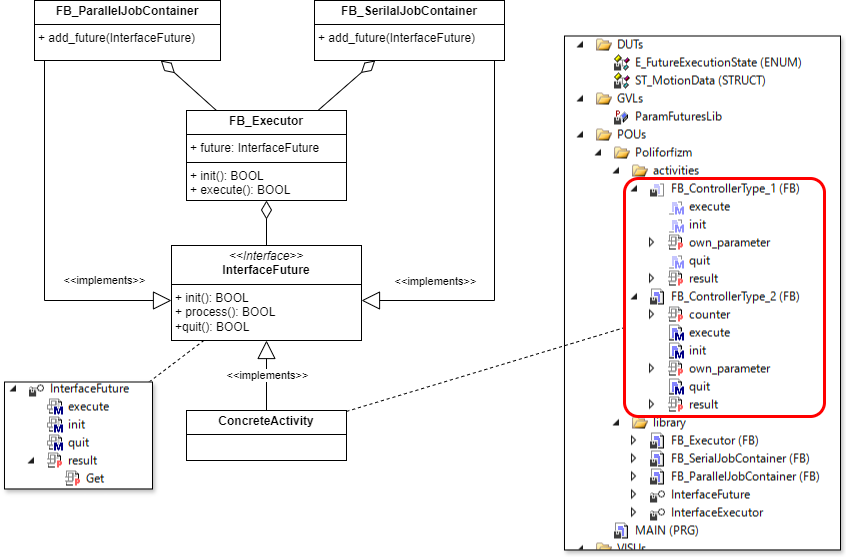
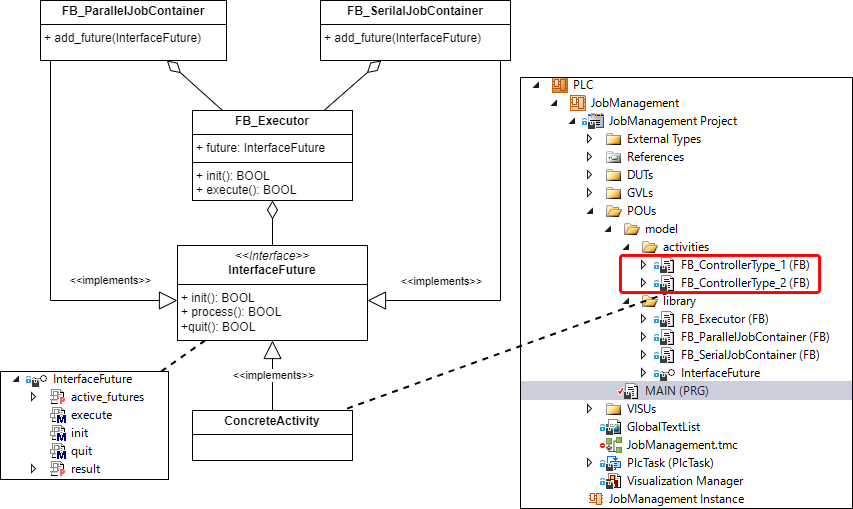
ジョブ管理機構サンプルコード：処理中断に関する仕様説明追加

diff --git a/source/plc_object_oriented_programming/sample_universal_activity.md b/source/plc_object_oriented_programming/sample_universal_activity.md
@@ -110,37 +110,28 @@ END_CASE
 
 この実装例でみられるとおり、本来の目的では、状態1はタイマによる処理、状態2はカウンタによる処理、としたいところですが、タイマの後始末や初期化処理がその前後のステップに食い込むなど、明確にプログラムロジックが分かれていません。
 
-これはメンテナンス性、可読性を落とす原因となっています。これらを処理目的毎に明確に「タスク」に分離し、オブジェクトモデルでジョブを構築できることを目指しましょう。
+PLCは、TcCOMモジュール全体でサイクリックに処理が繰り返されるもので、機能毎に独立して処理される訳ではありません。よって前述のとおり非活性状態のオブジェクトを含む、全体のオブジェクト状態を常に管理し続けなければなりません。これが徹底されていないことにより、不具合やバグが生じる要因となりえます。
 
-## サンプルプログラム解説
+## 並列ジョブ制御フレームワークサンプルコードのご紹介
 
-```{note}
+このサンプルコードでは、タスクの生成から終了に対する統合的な状態管理機能と、その状態に応じたユーザ定義機能を提供します。これにより前節で説明したオブジェクト状態管理に関する問題を解決することができます。
 
-本サンプルプログラムは、以下で公開しています。
+また、さまざまなIOやハードウェアの制御機能を「タスク」として抽象化することができます。これによってソフトウェア機能の部品化を加速し、統一したインターフェースに基づいてトレーサビリティ、イベント管理など付帯機能などとの連携が容易になります。
 
-[https://github.com/Beckhoff-JP/PLC_JobManagementFramework.git](https://github.com/Beckhoff-JP/PLC_JobManagementFramework.git)
+### タスクの構成とオブジェクトモデル
 
+フレームワークでは、{numref}`fig_future_time_chart`に示すタイミングチャートの単位をタスクとして制御できるようにします。タスクの本体は`executing()`で定義しますが、`init()`、`quit()`でその前後処理を定義します。
+
+```{figure} assets/task_time_chart.png
+:align: center
+:name: fig_future_time_chart
+
+タスクの構成と外部とのハンドシェーク
 ```
 
-まず、今回作成するジョブ制御フレームワークのクラス図を{numref}`fig_job_control_class_diagram` に示します。
+クラス図を{numref}`fig_job_control_class_diagram` に示します。タスクの定義は、`InterfaceFuture`のインターフェースを実装することで行います。サンプルコードではPOUsのツリー以下に`model/activities`というサブフォルダを構成し、ここにさまざまな制御パターンを集めて定義しています。これを用いてMAINプログラムでジョブを組み立てます。（{numref}`example_of_main_program_using_job_framework`）
 
-このモデルの中核は、タスクの構成を表すインターフェース`InterfaceFuture`です。非同期並列処理の概念である、[Futureパターン](https://ja.wikipedia.org/wiki/Future_%E3%83%91%E3%82%BF%E3%83%BC%E3%83%B3)からこの名前としました。
-
-このインターフェースでは、次のメソッドを定義します。いずれも引数は無しで、戻り値はBOOL型です。`FB_Executor` オブジェクトによりメソッドが実行され、処理を進行するためには、個々のメソッドの戻り値をTRUEにします。処理結果は別途`HRESULT`型のプロパティ`result`にセットします。
-
-```{csv-table}
-:header: メソッド名, 説明
-
-`init`, 実行前に必要な変数やオブジェクトの初期化を行います。
-`execute`, 独自の処理ロジックを実装します。
-`quit`, 実行後の変数やオブジェクトの後始末を行います。
-```
-
-このインターフェースを実装するプログラムは、すべて特定のフォルダに集めておきます。この例では`activities`フォルダにあります。
-
-ここには、いわば制御デザインパターンを格納する場所です。ハードウェアに合わせたものや、動作パターン毎にファンクションブロックを配置します。
-
-正常系だけではなく、異常終了した後の特別な処理なども定義しておくと良いでしょう。
+このように、制御デザインパターンと、これを組み合わせたジョブを区別して管理することで拡張性に優れた制御プログラムや、制御デザインパターンのライブラリ化が容易になります。
 
 ```{figure} assets/activity_control_class_diag.png
 :align: center
@@ -149,45 +140,10 @@ END_CASE
 JOB制御クラス図
 ```
 
-InterfaceFutureを実装したファンクションブロックインスタンスを`FB_Executor`の`future`プロパティを経てロードし、init()およびexecute()メソッドを実行すると、{numref}`fig_future_time_chart`の基本処理単位のセッションを実施します。先ほど示した状態マシンの例にあるような、制御実行前の準備、そして、制御終了後の処理など個別に定義でき、前処理や処理本体の開始タイミングは外部から与えられるようにします。
-
-```{figure} assets/task_time_chart.png
-:align: center
-:name: fig_future_time_chart
-
-Futureの構成とハンドシェーク
-```
-
-また、単一のタスクだけではなく、複数のタスクをまとめて処理するコンテナオブジェクトを用意しました。`FB_ParallelJobContainer`や`FB_SerialJobContainer`を用いると、{numref}`fig_parallel_job_container`や、{numref}`fig_serial_job_container`のように同時実行、または、逐次実行が可能となります。
-
-
-```{figure} assets/run_future_cue.png
-:align: center
-:name: fig_parallel_job_container
-
-並列処理JOBコンテナ（`FB_ParallelJobContainer`によるJOB配置イメージ）
-```
-
-```{figure} assets/run_future_serial.png
-:align: center
-:name: fig_serial_job_container
-
-直列処理JOBコンテナ（`FB_SerialJobContainer`によるJOB配置イメージ）
-```
-
-また、`FB_ParallelJobContainer`と`FB_SerialJobContainer`もまた`InterfaceFuture`インターフェースを実装していますので、それ自体を`FB_Executor`に処理させることができます。これにより、並列処理と逐次処理を組み合わせた複雑なタスク実行が可能となっています。
-
-```{tip}
-このデータモデルは、コンテナと処理が親子関係を構成し、定義によってさまざまな枝葉モデルが構築可能です。このソフト実装のデザインパターンを、[GoFのCompositeパターン](https://ja.wikipedia.org/wiki/Composite_%E3%83%91%E3%82%BF%E3%83%BC%E3%83%B3)と呼びます。
-```
-
-コンテナも含めたJOBの概念図は次の通りとなります。色付きの線が、個々のタスクに該当します（{numref}`fig_job_control_class_diagram`の`ConcreteActivity`に該当するオブジェクト）。これらはFB_ParallelJobContainerやFB_SerialJobContainerと共に、InterfaceFutureを実装したものです。このインターフェースを使って、FB_Executorが処理を実行します。
-
-![](assets/sample_code_job_structure.png){align=center}
-
-次のMAINプログラムは、この図に従った実際のプログラム例です。
-
 ```{code-block} iecst
+:caption: 並列ジョブ管理フレームワークを用いたMAINプログラム例
+:name: example_of_main_program_using_job_framework
+
 PROGRAM MAIN
 VAR
     _state :UINT;
@@ -195,6 +151,10 @@ VAR
     fbTask2 : FB_ControllerType_1;
     fbTask3 : FB_ControllerType_2;
     fbTask4 : FB_ControllerType_2;
+    fbTask5 : FB_ControllerType_1;
+    fbTask6 : FB_ControllerType_1;
+
+
     component1_in : BOOL;
     component1_out : BOOL;
     component2_in : BOOL;
@@ -208,18 +168,22 @@ VAR
     serial_job3 : FB_SerialJobContainer;
     pararel_job1 : FB_ParallelJobContainer;
     pararel_job2 : FB_ParallelJobContainer;
-    executor : FB_Executor;
+    executor: FB_Executor;
+    execution_step: UINT;
+    resume: BOOL;
+    abort: BOOL;
 END_VAR
 
-
-// FB_Executor.execute()メソッドは常時実行
-executor.execute();
+// HMIボタンによる処理中断
+IF abort THEN
+    executor.abort();
+END_IF
 
 CASE _state OF
     0:
-        // 固有パラメータ設定
-        fbTask1.own_parameter := T#3S;
-        fbTask2.own_parameter := T#10S;
+        // 固有パラメータ設
+        fbTask1.own_parameter := T#13S;
+        fbTask2.own_parameter := T#20S;
         fbTask3.own_parameter := 2;
         fbTask4.own_parameter := 2;
         
@@ -236,22 +200,221 @@ CASE _state OF
         serial_job1.add_future(fbTask2);
         serial_job2.add_future(fbTask3);
         serial_job2.add_future(fbTask4);
-        pararel_job2.add_future(fbTask1);
-        pararel_job2.add_future(fbTask2);
+        pararel_job2.add_future(fbTask3); // 同時実行でなければ同じFutureオブジェクトを使いまわせる
+        pararel_job2.add_future(fbTask4);
         serial_job3.add_future(pararel_job1);
         serial_job3.add_future(pararel_job2);
         executor.future := serial_job3;
         _state := 1;
     1:
-        // シーケンス開始
-        IF executor.ready THEN
+        // タスクスタート（wait_for_process か 処理中断再開でスタート）
+        IF (executor.current_state = E_FutureExecutionState.wait_for_process AND executor.ready) OR 
+            (executor.current_state = E_FutureExecutionState.abort AND resume) THEN
             executor.start();
         END_IF
-        IF executor.done THEN
+        // ジョブ実行中execute()の常時実行
+        IF executor.execute() AND SUCCEEDED(executor.result) THEN
             _state := 2;
         END_IF
     2:
+        // シーケンス初期化を行い、再度ジョブ実行（繰り返し処理）
         executor.init();
         _state := 1;
 END_CASE
+
+execution_step := executor.active_task_id;
+
+resume := FALSE;
+
 ```
+
+
+```{note}
+
+本サンプルプログラムは、以下で公開しています。
+
+[https://github.com/Beckhoff-JP/PLC_JobManagementFramework.git](https://github.com/Beckhoff-JP/PLC_JobManagementFramework.git)
+
+```
+
+### InterfaceFuture
+
+
+```{csv-table}
+:header: メソッド名, 型, 戻り値 ,説明
+
+`init`, BOOL , 実行前に必要な変数やオブジェクトの初期化を行います。処理完了時にTRUEを返す必要があります。
+`execute`, BOOL , タスク本体の処理を実装します。処理完了時にTRUEを返す必要があります。
+`quit`, BOOL , 実行後の変数やオブジェクトの後始末を行います。処理完了時にTRUEを返す必要があります。
+`abort`, BOOL , 中断処理が行われた際に実施する処理を実装します。処理完了時にTRUEを返す必要があります。
+```
+
+```{csv-table}
+:header: プロパティ名,型, 方向 ,説明
+:widths: 1,1,1,5
+
+result, HRESULT, GET, 処理結果を[`hrErrorCode`](https://infosys.beckhoff.com/content/1033/tc3_plc_intro/12049349259.html?id=2525089929595466454)に従った型で出力します。
+active_futures, UINT, GET, `FB_SerialJobContainer`や`FB_ParallelJobContainer`に実装されたプロパティ。`FB_SerialJobContainer`の場合は現在処理中のFuture番号を返す。`FB_ParallelJobContainer`では、実行するFutureの合計数を返す。いずれも`executing()`メソッド実行中以外は0を返す。`FB_Executor` の `active_task_id` プロパティから取り出すことができます。
+```
+
+
+`InterfaceFuture`インターフェースの名前は[Futureパターン](https://ja.wikipedia.org/wiki/Future_%E3%83%91%E3%82%BF%E3%83%BC%E3%83%B3)から由来しています。複数の演算コアで並列処理を行うのではなく、単一の演算コア上にタスクを順次パイプライン実行していく仕組みにより、処理完了を待たされる（ブロックされる）ことなく処理を進めることができます。実際の演算は将来行われることからFutureパターンと呼ばれています。
+
+このインターフェースにより実装したファンクションブロックをタスクとして、次節に示す`FB_Executor`で統一的に実行することが可能になります。
+
+### FB_Executor
+
+`InterfaceFuture`をの実装ファンクションブロックを実行する主体は、`FB_Executor`です。
+
+```{csv-table}
+:header: メソッド名, 型, 戻り値 ,説明
+:widths: 1,1,2,6
+
+`init`, BOOL , 初期化処理完了時にTRUEが返る , タスクの処理を開始できる状態に初期化する。
+`execute`, BOOL , タスク処理完了時にTRUEが返る , "`future.init()`, `future.execute()`, `future.quit()`を順次実行します。すべて完了したら戻り値がTRUEになります。"
+`abort`, BOOL, 中断処理完了時にTRUEが返る, "`future.init()`、`future.execute()`、`future.quit()` 何れか実行中にこのメソッドを実行すると、`E_FutureExecutionState.abort` の状態に遷移し、`future.abort()`を実行する。"
+`start`, BOOL , なし, `E_FutureExecutionState.wait_for_process` 状態時にこのメソッド実行すると、`InterfaceFuture.execute()`処理を、`E_FutureExecutionState.abort` の状態の際にこのメソッドを実行すると、中断する前に実行していた`future.init()`、`future.execute()`、`future.quit()`の処理を再開する。
+```
+
+```{csv-table}
+:header: プロパティ名,型, 方向 ,説明
+:widths: 1,1,1,5
+
+result, HRESULT, GET, 処理結果を[`hrErrorCode`](https://infosys.beckhoff.com/content/1033/tc3_plc_intro/12049349259.html?id=2525089929595466454)に従った型で出力します。
+active_task_id, UINT, GET, `FB_SerialJobContainer`や`FB_ParallelJobContainer`の実行状態がモニタできます。`FB_SerialJobContainer`の場合は現在処理中のFuture番号を返します。`FB_ParallelJobContainer`では、実行するFutureの合計数を返します。いずれも`executing()`メソッド実行中以外は0を返します。
+current_state, E_FutureExecutionState, GET, `execute()`中の実行状態を返します。
+future, InterfaceFuture, SET, 実装したタスクをセットします。
+done, BOOL, GET, InterfaceFutureで実装した`execute()`の処理が完了後TRUEを返します。
+ready, BOOL, GET, InterfaceFutureで実装した`init()`の処理が完了後TRUEを返します。
+```
+
+`start()`メソッドや、`ready`、`done`プロパティはタスク同士を連続して実行する際、InterfaceFutureの`init()`や`quit()`の処理によりサイクルの隙間が発生しないようにするトリガやイベントです。
+
+### ジョブコンテナ
+
+複数のタスクをまとめて取り扱うコンテナオブジェクトが二つ用意されています。`FB_ParallelJobContainer`や`FB_SerialJobContainer`を用いると、{numref}`fig_parallel_job_container`や、{numref}`fig_serial_job_container`のように同時実行、または、逐次実行が可能となります。
+
+```{figure} assets/run_future_cue.png
+:align: center
+:name: fig_parallel_job_container
+
+並列処理JOBコンテナ（`FB_ParallelJobContainer`によるJOB配置イメージ）
+```
+
+```{figure} assets/run_future_serial.png
+:align: center
+:name: fig_serial_job_container
+
+直列処理JOBコンテナ（`FB_SerialJobContainer`によるJOB配置イメージ）
+```
+
+`FB_ParallelJobContainer`や`FB_SerialJobContainer`内でタスク同士が同期的に連動するのは`execute()`の前後のみです。`init()`はタスク開始時から全タスク同時に開始し、`quit()`は`execute()`実行完了後すぐに実行されます。
+
+また、`FB_ParallelJobContainer`と`FB_SerialJobContainer`もまた`InterfaceFuture`インターフェースを実装していますので、それ自体を`FB_Executor`に処理させることができます。これにより、並列処理と逐次処理を組み合わせた複雑なタスク実行が可能となっています。
+
+```{tip}
+このデータモデルは、コンテナと処理が親子関係を構成し、定義によってさまざまな枝葉モデルが構築可能です。このソフト実装のデザインパターンを、[GoFのCompositeパターン](https://ja.wikipedia.org/wiki/Composite_%E3%83%91%E3%82%BF%E3%83%BC%E3%83%B3)と呼びます。
+```
+
+{numref}`example_of_main_program_using_job_framework`のMAINプログラム例で作成したジョブのタイムチャートイメージを{numref}`fig_job_container_task_image`に示します。枠囲い部分がジョブコンテナです。その中の線は個々のタスクです（{numref}`fig_job_control_class_diagram`の`ConcreteActivity`に該当するオブジェクト）。これらはFB_ParallelJobContainerやFB_SerialJobContainerと共に、InterfaceFutureを実装したものです。このインターフェースを使って `FB_Executor` が処理を実行します。
+
+```{figure} assets/sample_code_job_structure.png
+:align: center
+:name: fig_job_container_task_image
+
+ジョブコンテナを組み合わせたジョブイメージ
+```
+
+### 実装手順
+
+本フレームワークを用いた開発手順についてご説明します。
+
+#### ジョブコンテナに格納できるタスク数の設定
+
+FB_ParallelJobContainerやFB_SerialJobContainer内に配置可能なInterfaceFutureの配列数は、GVLs内の`ParameterFutureLib`のライブラリパラメータ`MAX_TASK_NUM`にて設定してください。
+
+本フレームワークをライブラリとして活用される場合は、{ref}`section_library_parameter` に示すとおり、ライブラリマネージャのライブラリ内の`Library parameters`タブを開いて設定してください。
+
+#### インターフェース実装
+
+インターフェースの追加は、ファンクションブロックの追加時に次の通り指定します。
+
+![](assets/2024-05-05-20-51-35.png){align=center}
+
+これにより追加されたファンクションブロックは次のとおり`IMPLEMENTS InterfaceFuture`が付加されたファンクションブロックが作成されます。
+
+```{code-block} iecst
+
+FUNCTION_BLOCK FB_YourTask1 IMPLEMENTS InterfaceFuture
+VAR_INPUT
+ :
+```
+
+また、ライブラリを変更し、インターフェースに新たなメソッドやプロパティ定義を加えた場合は、次の操作にて実装ファンクションブロックに対して、不足分を反映することができます。
+
+1. 実装ファンクションブロックを選択してコンテキストメニューから`Implements Interfaces`を選択する。
+2. メソッドで実装するIEC61131-3の言語を選択します。
+
+![](assets/2024-05-05-20-56-33.png){align=center}
+
+```{note}
+Implements Interfacesメニューで自動反映される内容はメソッドやプロパティの新規追加のみです。実装済みのファンクションブロックのメソッドやプロパティについて行われた、インターフェースの変更や削除の内容は反映されませんのでご注意ください。
+
+インターフェースと実装ファンクションブロックのメソッド、プロパティ、またその型や引数の仕様が異なると、ビルドに失敗します。ビルドエラーが出なくなるように手動で変更を反映してください。
+```
+
+##### init, execute, quit, abort メソッドの実装
+
+サンプルプログラムでは、`model/activities`フォルダ内にある各ファンクションブロックに該当する部分で、機能やコンポーネントに合わせた具体的なタスクを定義するファンクションブロックの書き方について説明します。
+
+入出力変数は空にしておく
+    : 入出力変数はインターフェースにより定められていますので、加えることはできません。ファンクションブロックの入出力変数や、ファンクションブロック独自のプロパティを使って、外部とのデータアクセスを行ってください。
+
+終了条件としてメソッドの戻り値を`TRUE`にする
+    : FB_Executorファンクションブロックが`init()`, `execute()`, `quit()` メソッドを実行する際、戻り値がTRUEとなる事で終了とみなされます。次の通りメソッド名の変数に対してTRUEとなる終了条件を定義してください。
+
+    : ```{code} iecst
+      execute := <<終了条件>>;
+      ```
+
+    : 不要な`init()`, `quit()`, `abort()`などは、空の処理として少なくとも次を実装する必要があります。
+
+    : ```{code} iecst
+      init/quit/abort := TRUE;
+      ```
+
+終了時の状態は `result` プロパティを通して通知します
+    : `init()`, `execute()`, `quit()`の終了時の状態は、resultプロパティにて通知してください。 `FB_Executor` で実行した際、これらの処理が完了するとこの終了コードが`FB_Executor.result`プロパティで取り出せます。また、`SUCCEEDED()`ファンクションでFALSEとなった場合は、`E_FutureExecutionState.abort`状態となり処理中断状態となります。中断時に実行する処理内容は、`abort()`に定義してください。
+
+##### I/Oなどをファンクションブロック内で操作する
+
+I/Oなど参照渡しする変数についてはファンクションブロックの`VAR_IN_OUT`を用いる方法が最もシンプルです。インターフェースなどを使う目的でプロパティで受け渡す場合は、型安全のためにも`PVOID`ではなく`POINTER TO`修飾子によって型を明示したポインタ型変数を用いてください。
+
+#### メインプログラム実装
+
+メインプログラムでは、タスク（`InterfaceFuture`を実装したもの）、`FB_executor`、ジョブコンテナ（`FB_ParallelJobContainer`、`FB_SerialJobContainer`）の各インスタンスを定義します。
+
+ジョブにつき一つの`FB_executor`のインスタンスを用意する
+    : ここでは、複数のタスクが組み合わされた一連の流れをジョブと呼びます。このジョブ毎に一つの`FB_executor`インスタンスを用意してください。`future`プロパティにて、タスクインスタンス、または、複数のタスクを束ねるジョブコンテナオブジェクトを関連付けます。
+
+ジョブコンテナインスタンスのadd_task
+    : `FB_ParallelJobContainer`、`FB_SerialJobContainer`それぞれ`add_task()`を実施します。`FB_SerialJobContainer`では、`add_task()`を実施した順番で処理が行われます。
+
+`FB_Executor.execute()` でジョブを実行し、タスク開時に`FB_Executor.start()`を呼び出す
+    : ジョブ実行中は`FB_Executor.execute()`を呼び出し続けてください。また、`FB_Executor.ready`がTRUEとなったら、`FB_Executor.start()`を呼び出してください。これによりタスク処理を開始します。
+    
+    : また、処理中断からの再開時にも、`FB_Executor.start()`を呼び出してください。中断前に実施していた`InterfaceFutre.init()`, `InterfaceFuture.execute()`, `InterfaceFuture.quit()`を再開実行します。
+
+    : ```{note}
+      `FB_Executor.abort()` や Futureの各処理でHRESULTでエラー終了した場合、直前に行っていたinit(), execute(), quit()などのメソッドは中断されます。このためオブジェクトの変数状態は保持されます。これにより、例えばTONファンクションブロック等では、バックグラウンドで時間カウントアップを継続したままの状態で中断される事となり、次回再開時にはタイマ値がlimitに達した状態から処理が行われてしまいます。
+
+      この対策として、サンプルコードでは`InterfaceFuture.abort()`処理内にて、タイマ値の現在地を保存した上でタイマの計測停止を行います。また、次回処理再開時にはその残時間を改めてTONに設定しています。処理中断・再開処理にはこのような対策が必要となります。
+      ```
+
+外部からの処理中断を行う
+    : ボタン操作等で、実行中の処理を中断を行うには、`FB_Executor.abort()`を実行してください。1度実行すれば内部で状態保持しますので、1サイクルのみ実行してください。
+
+ジョブを最初からやりなおす場合は`FB_Executor.init()`を実行する
+    : 実行済みのジョブの各オブジェクトは最終状態を保持したままとなっています。ジョブコンテナおよびそこに関連付けられたタスク全てを初期化するには、`FB_Executor.init()`を実行します。
+
+    : また、処理中断となったあと、再開せずに初期状態に戻す場合も`FB_Executor.init()`を実行してください。
